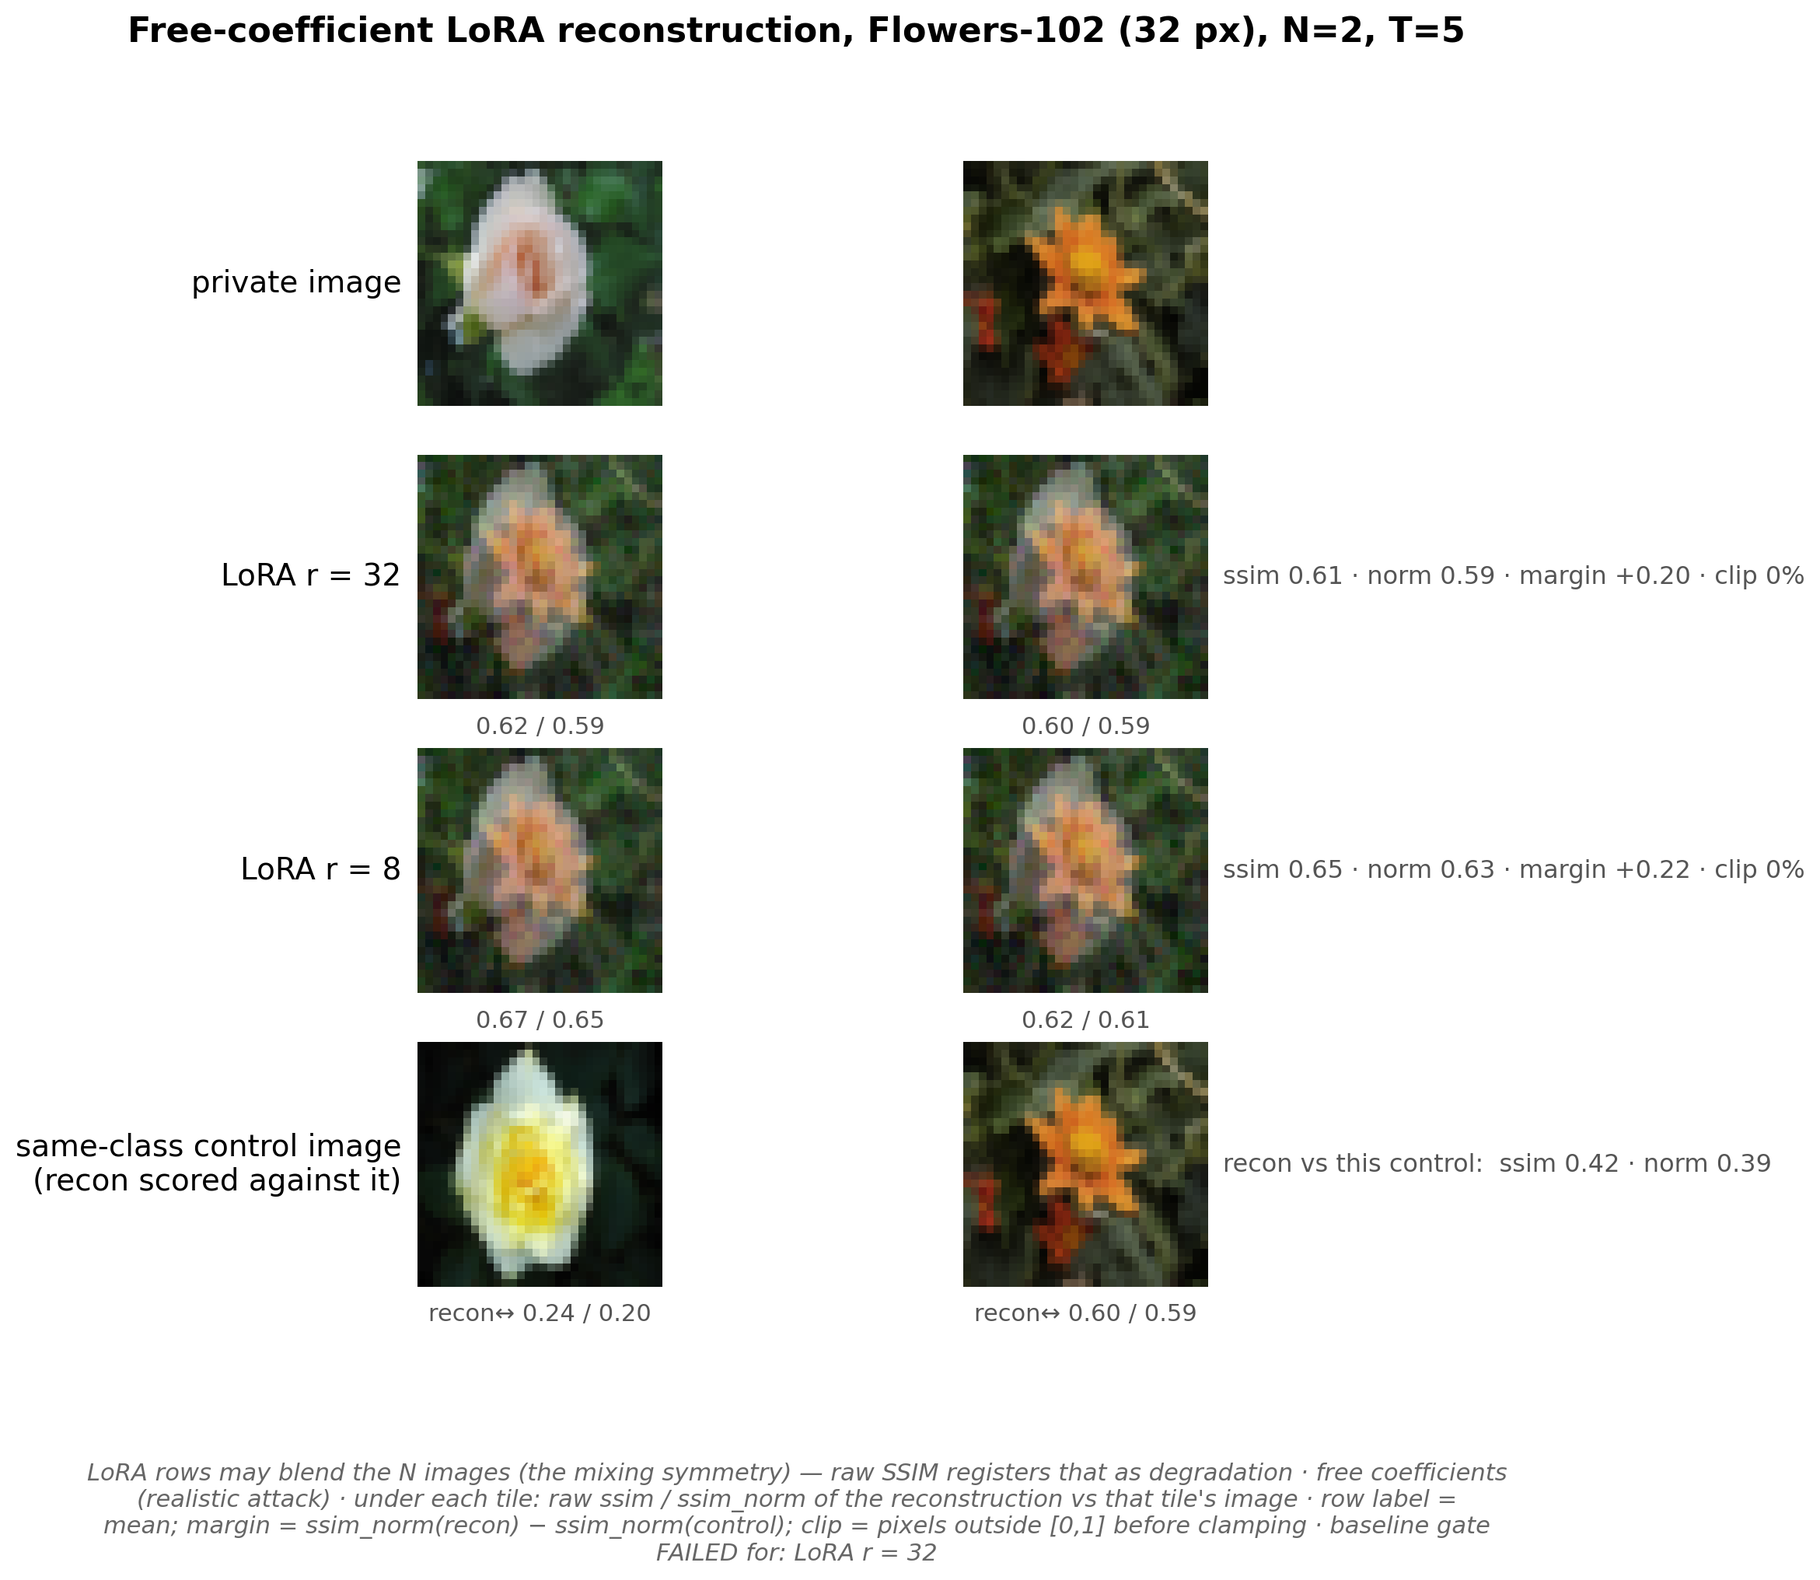
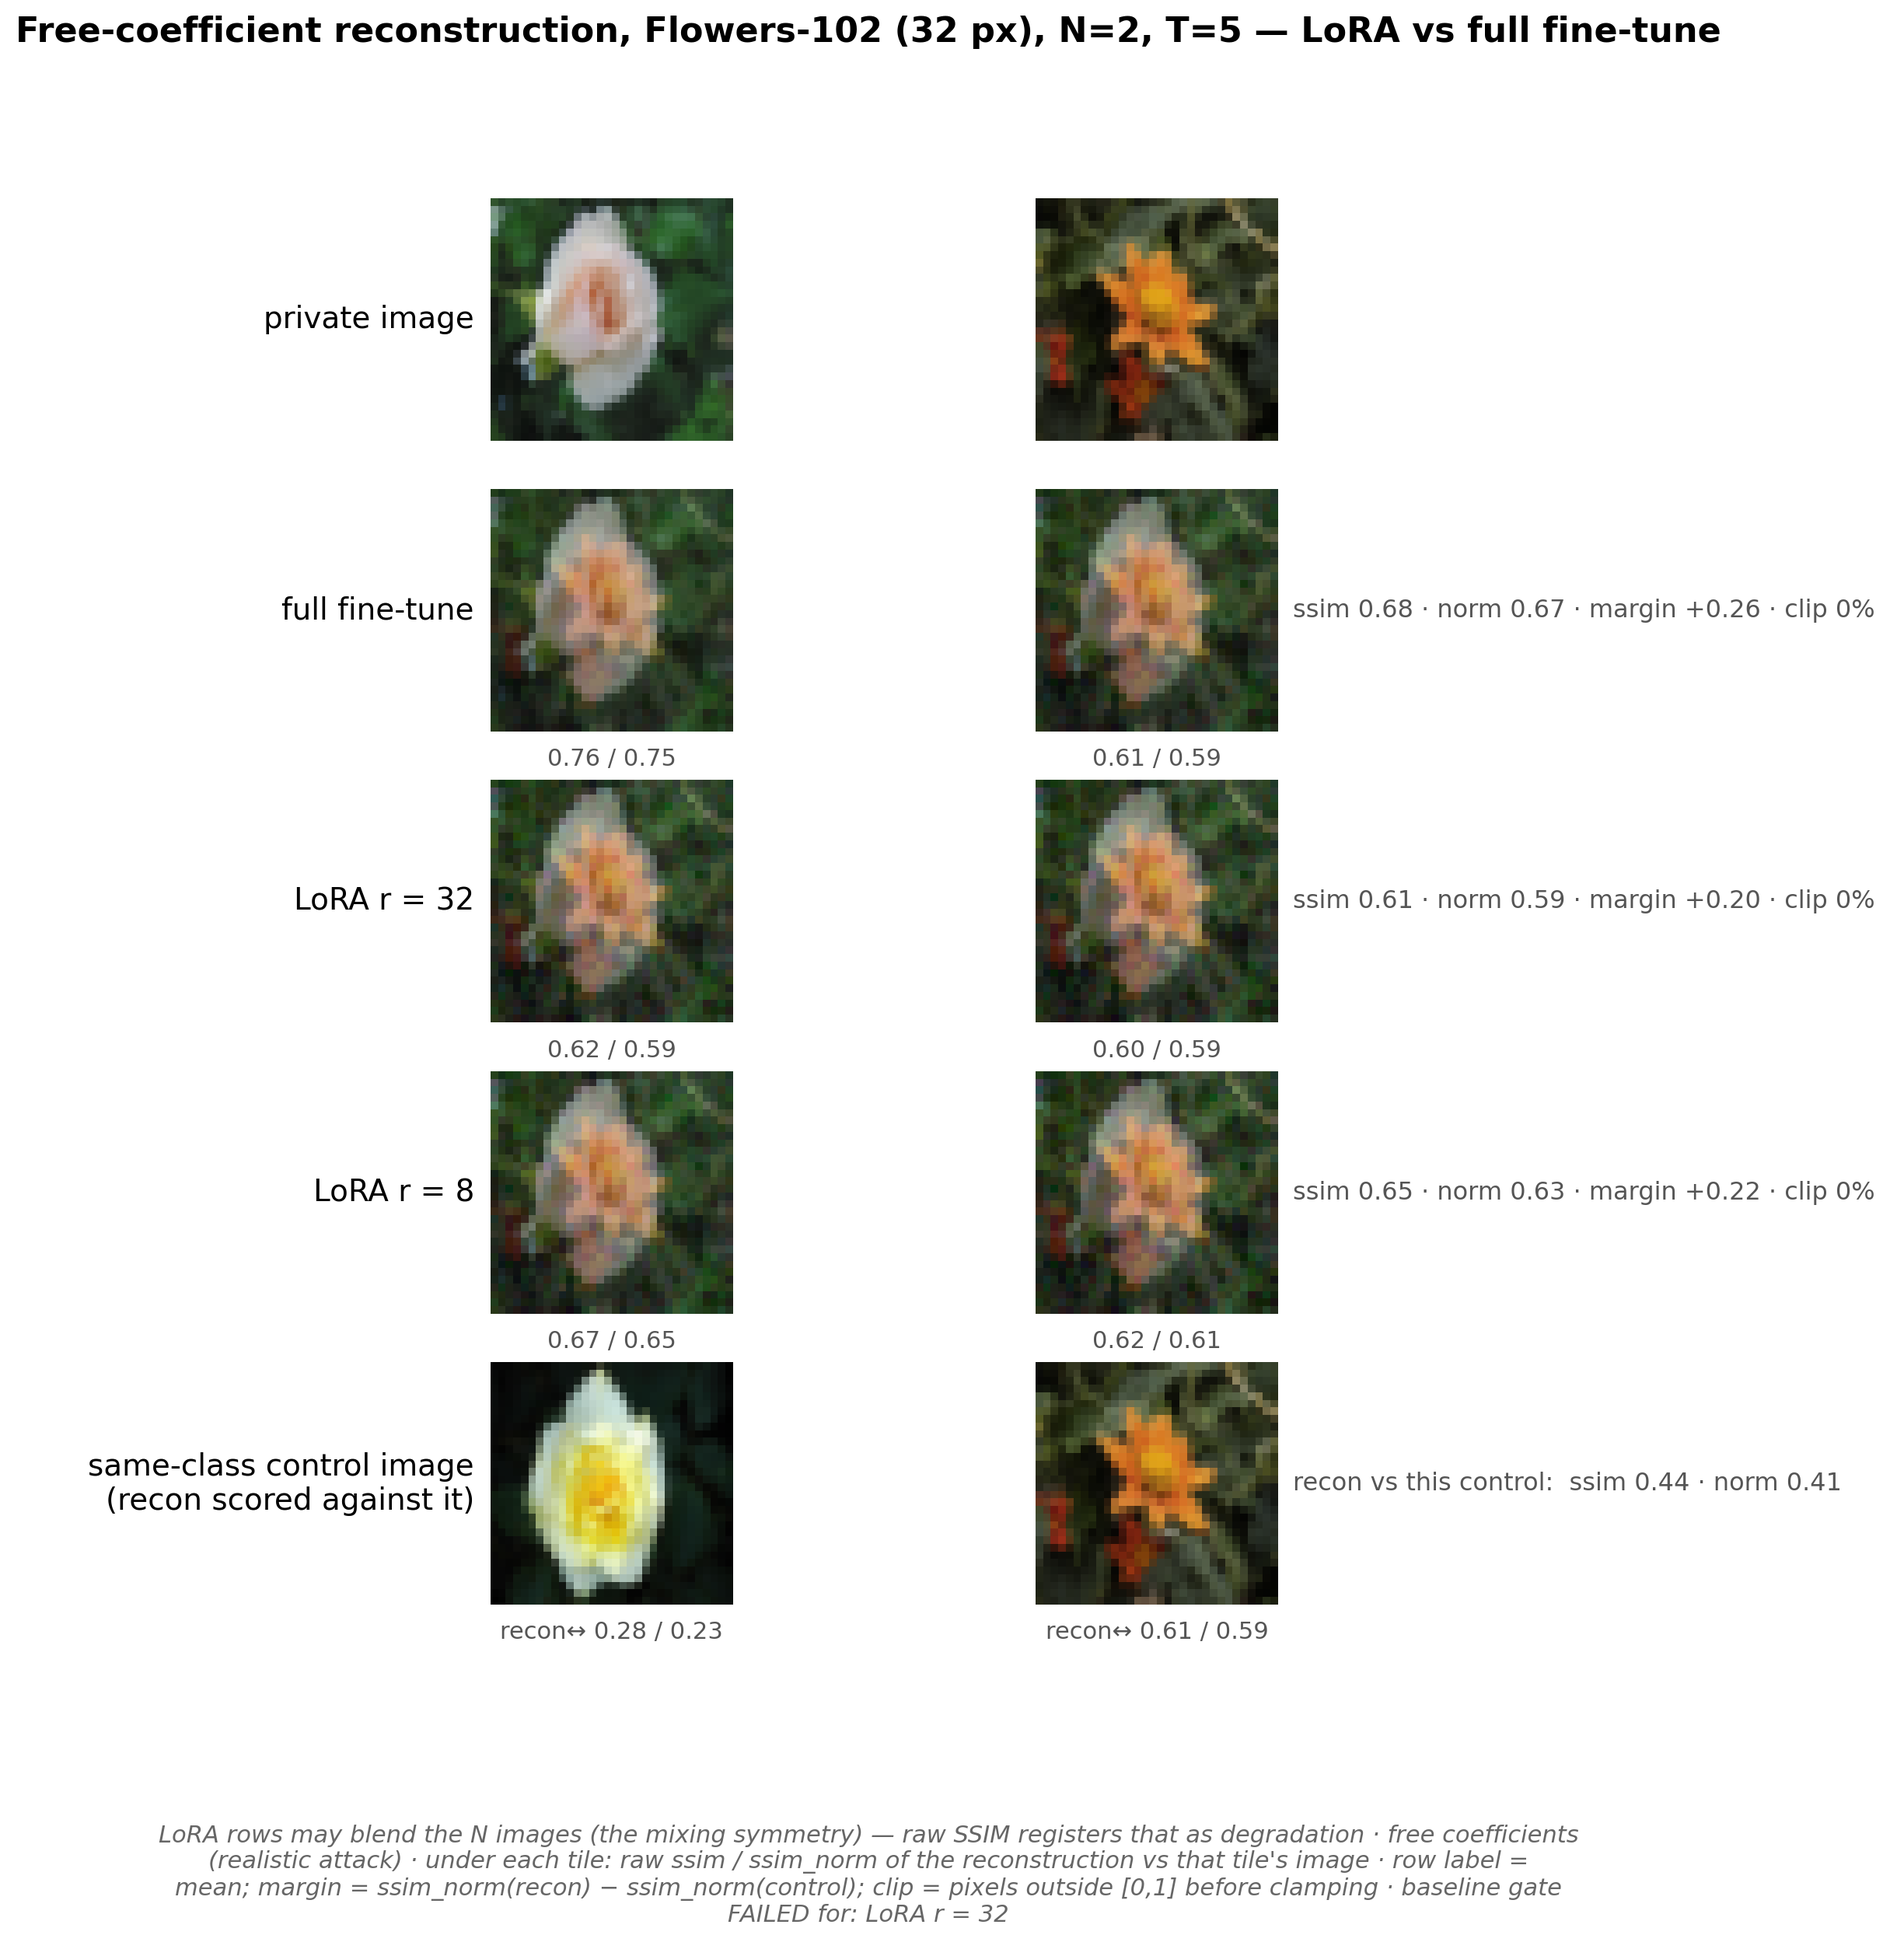
recon showcase v2: T=5 complete on MNIST (full/r32/r16/r8) and flowers (full/r32/r8), free coefficients

diff --git a/figures/recon_showcase/README.md b/figures/recon_showcase/README.md
@@ -4,7 +4,6 @@ Realistic attack only: **free coefficients** (the attacker does not know the per
 oracle-coefficient runs appear nowhere. Non-trivial training length: T ∈ {5, 10, 20} SGD steps (T=1 panels are
 kept as `freec_T1_*` for reference only and are NOT part of the deliverable).
 
-Note: the flowers grids currently show LoRA ranks only (full-FT flowers rows are still computing) — their titles say so.
 Setup: N = 2 private images, one fine-tuned MLP (Haim-style), seed 42. MNIST: leaky-ReLU fine-tune (the leaking,
 kinked activation), extraction with L-BFGS; LoRA = rank-r adapter on the first layer; "full fine-tune" = all first-layer
 weights. Flowers-102 (32 px, RGB): ReLU-extraction recipe (relu_alpha 10000, SGD). Per (dataset, T, rank) the best
